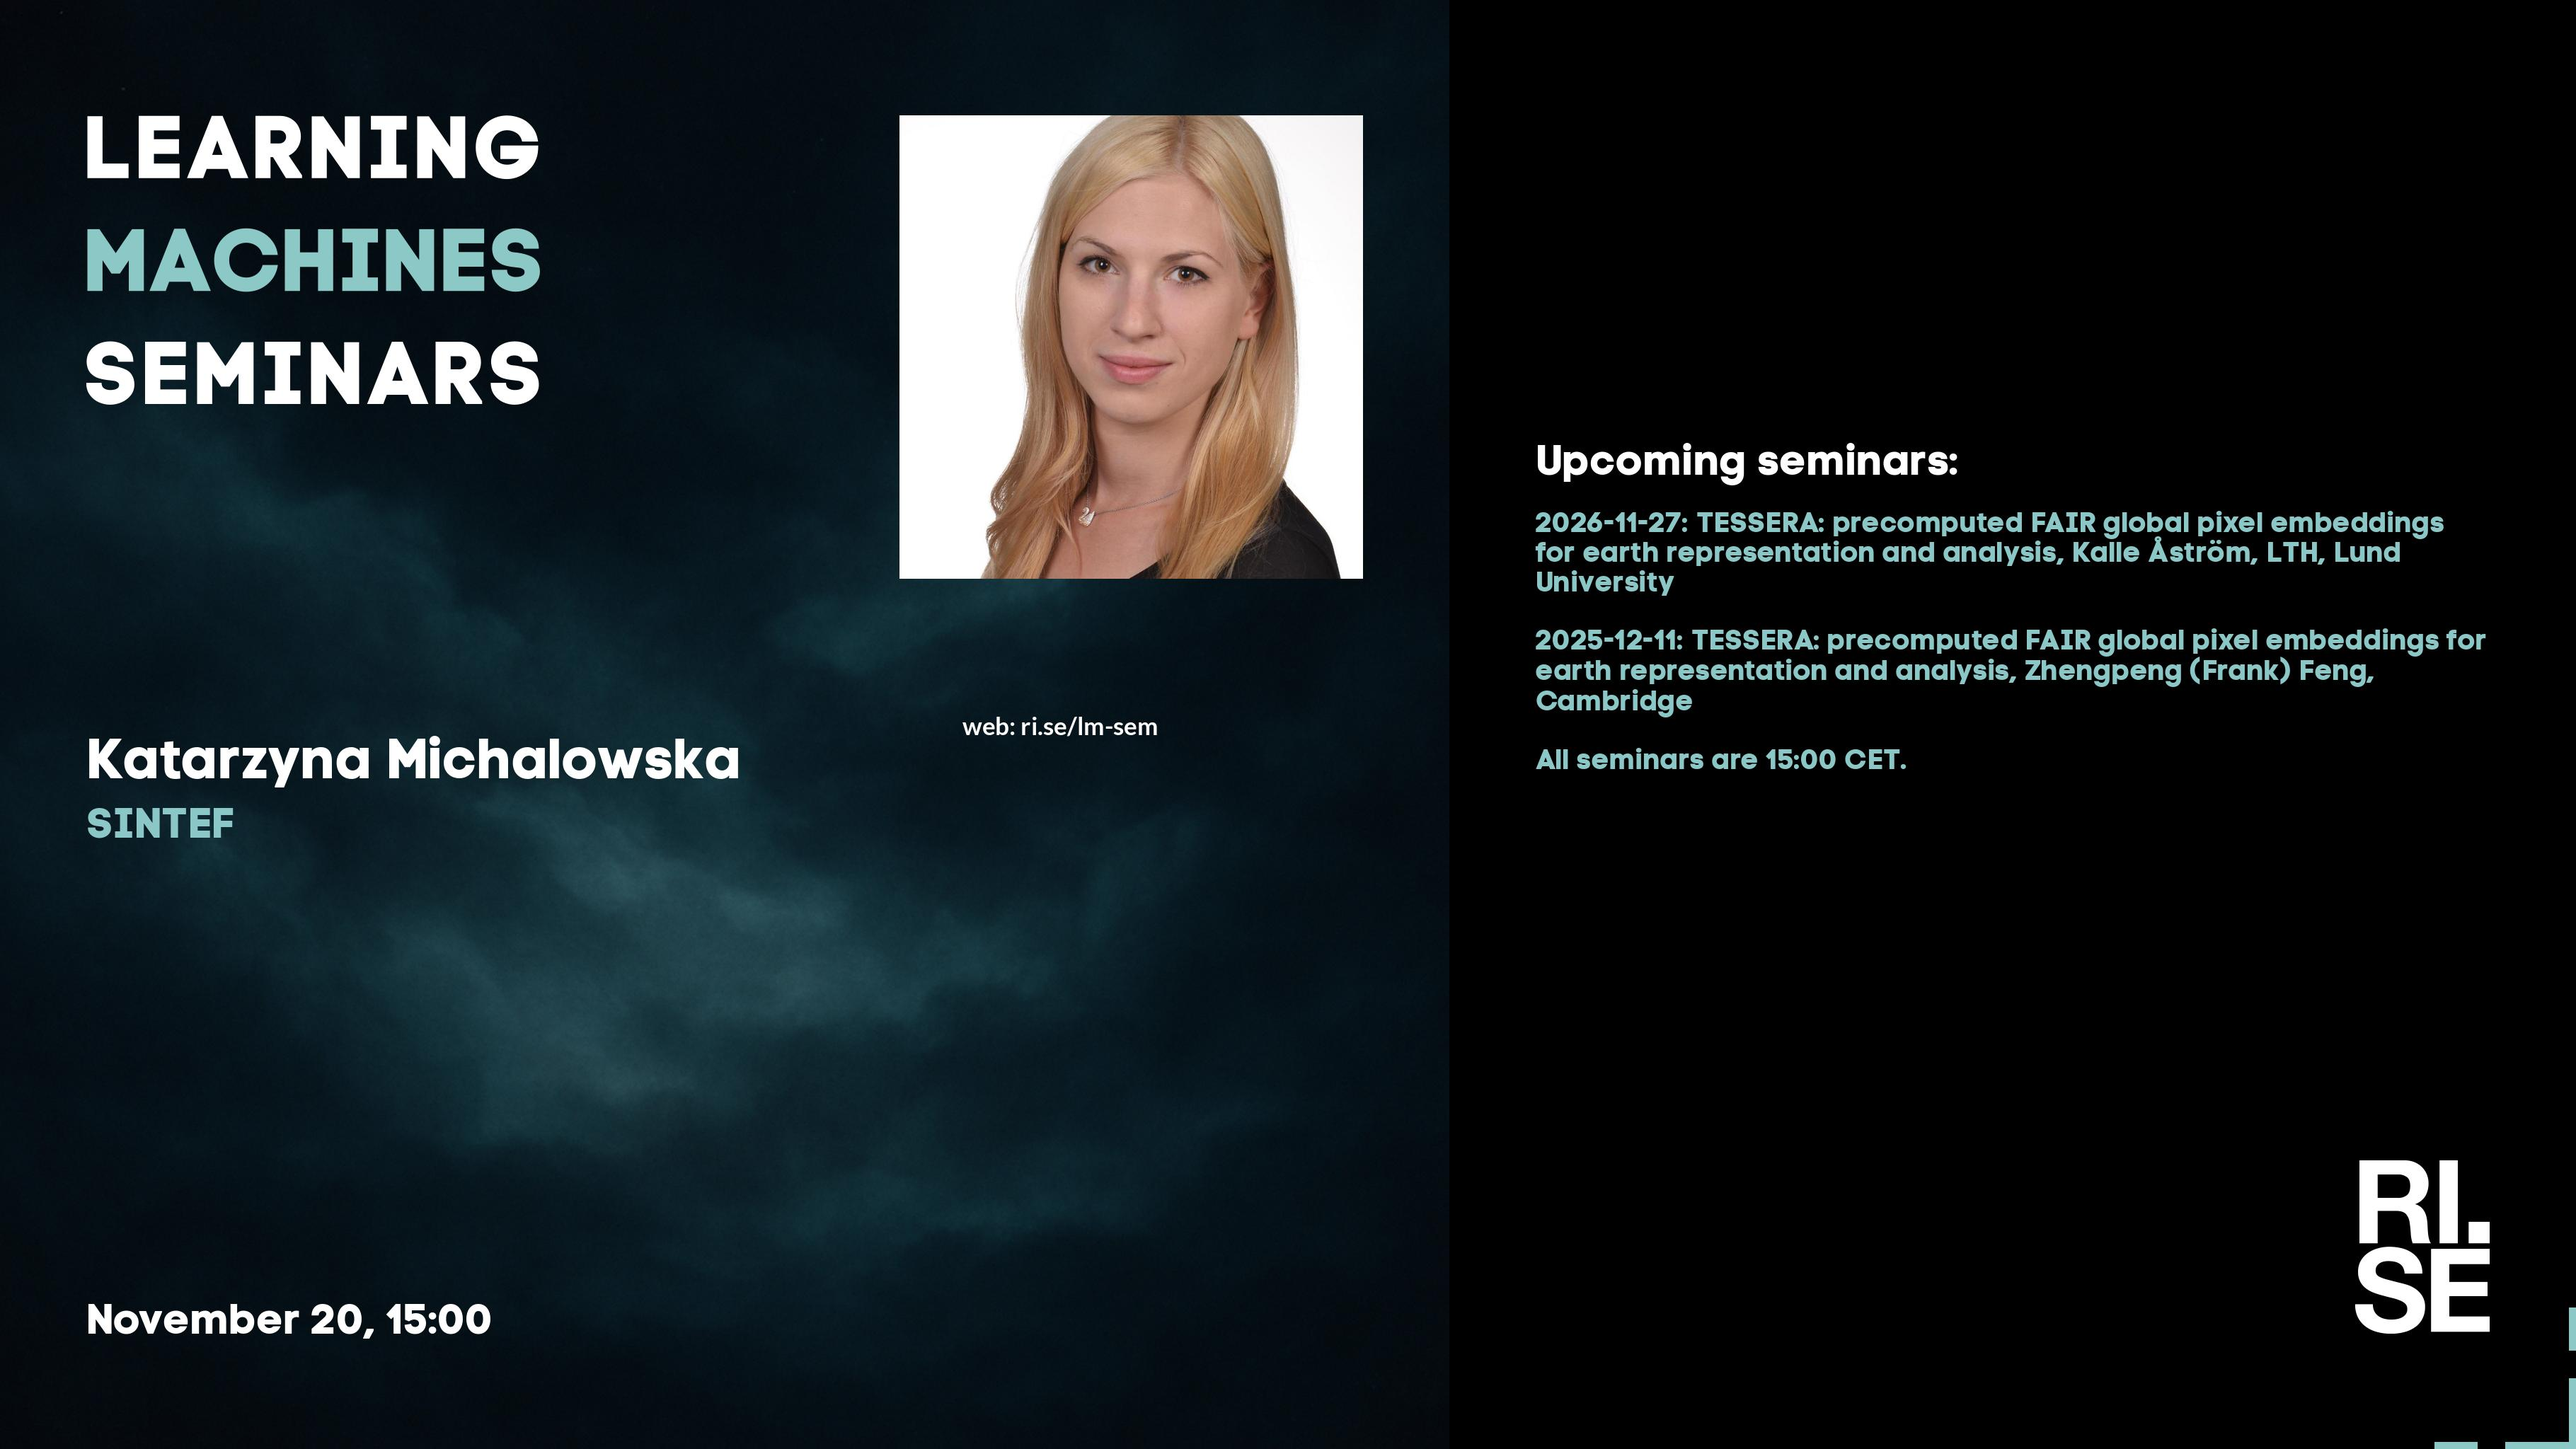
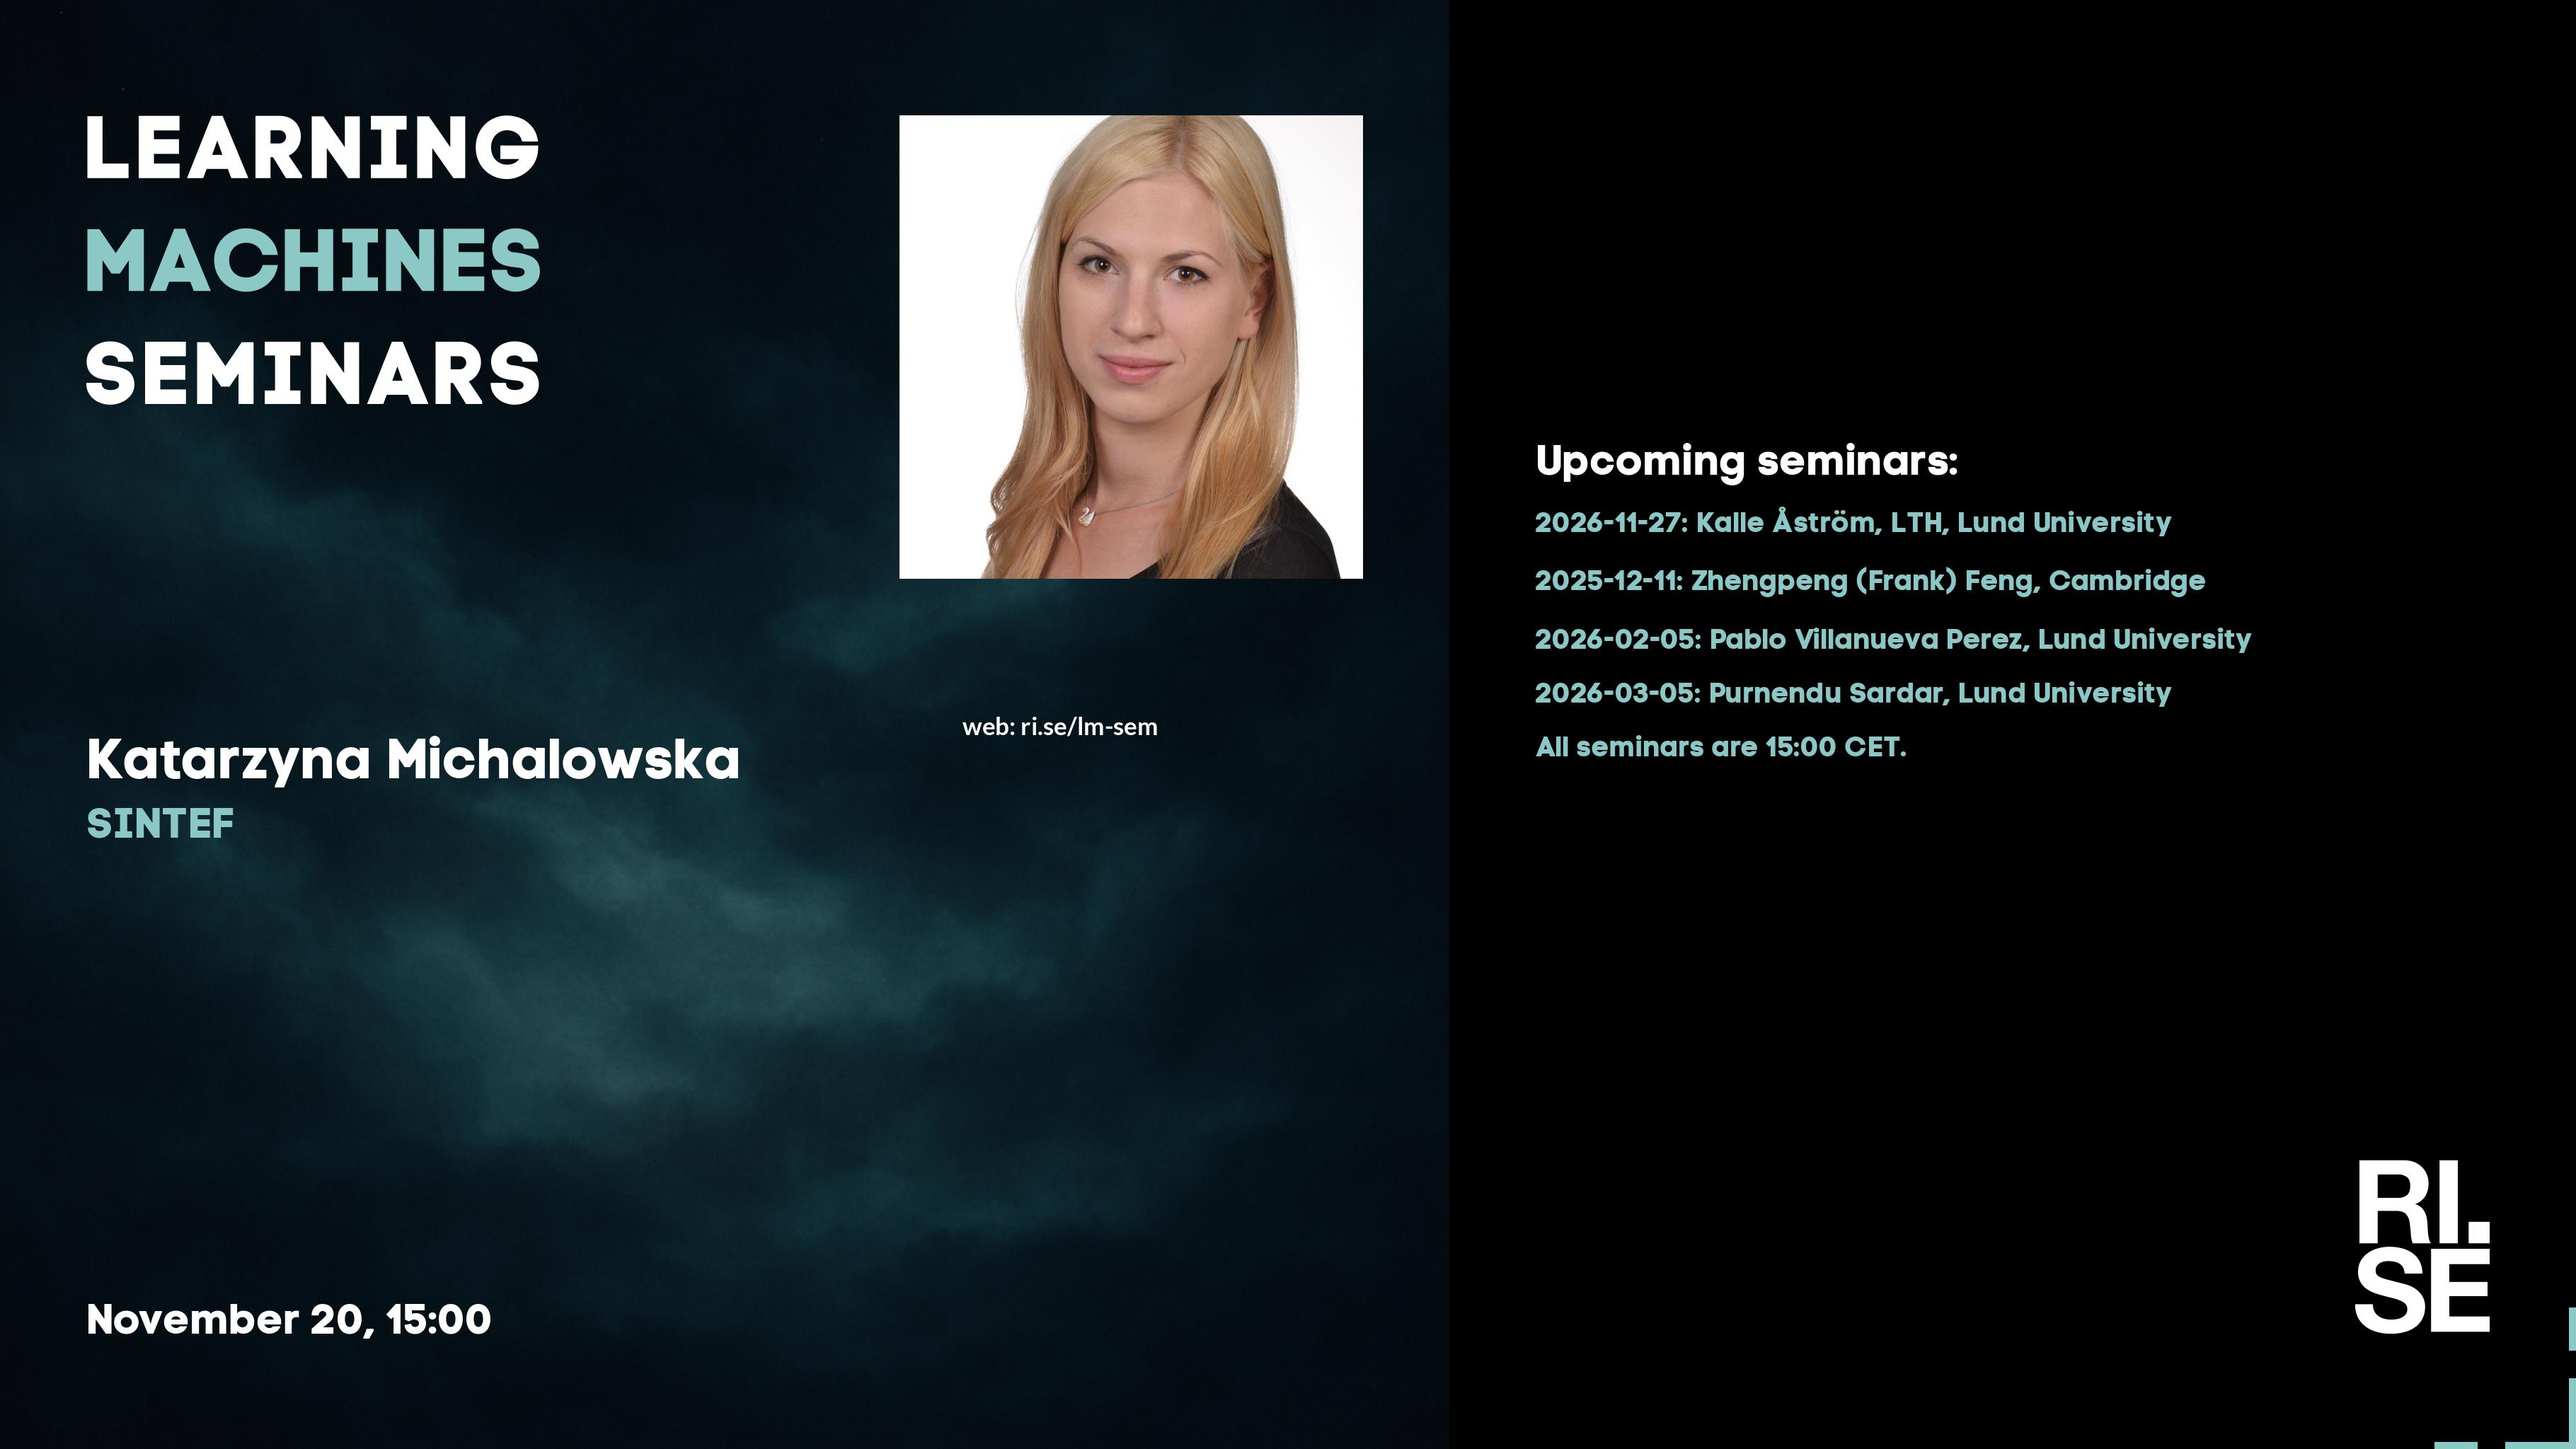
Updated plan on web site.

Changed region(s): [[0.5898, 0.3438, 0.9624, 0.5312]]

diff --git a/lm/2025-11-20.md b/lm/2025-11-20.md
@@ -22,8 +22,10 @@ Welcome to this week's Learning Machines seminar.
 
 **Upcoming seminars:**
 
-* 2026-11-27: *TESSERA: precomputed FAIR global pixel embeddings for earth representation and analysis*, Kalle Åström, LTH, Lund University
-* 2025-12-11: *TESSERA: precomputed FAIR global pixel embeddings for earth representation and analysis*, Zhengpeng (Frank) Feng, Cambridge
+* 2026-11-27: Kalle Åström, LTH, Lund University
+* 2025-12-11: Zhengpeng (Frank) Feng, Cambridge
+* 2026-02-05: Pablo Villanueva Perez, Lund University
+* 2026-03-05: Purnendu Sardar, Lund University
 * All seminars are 15:00 CET.
 
 More information and coming seminars: [https://ri.se/lm-sem](https://ri.se/lm-sem)

diff --git a/lm/2026-11-27.md b/lm/2026-11-27.md
@@ -2,7 +2,7 @@
 layout: default
 metatags: "<meta name=\"robots\" content=\"noindex,nofollow\" />"
 ---
-<img src="/lm/2026-11-27-youtube-thumbnail-kalle-åström.jpg" />
+<img src="/lm/2026-11-27-youtube-thumbnail-kalle-astrom.jpg" />
  
 Welcome to this week's Learning Machines seminar.
 
